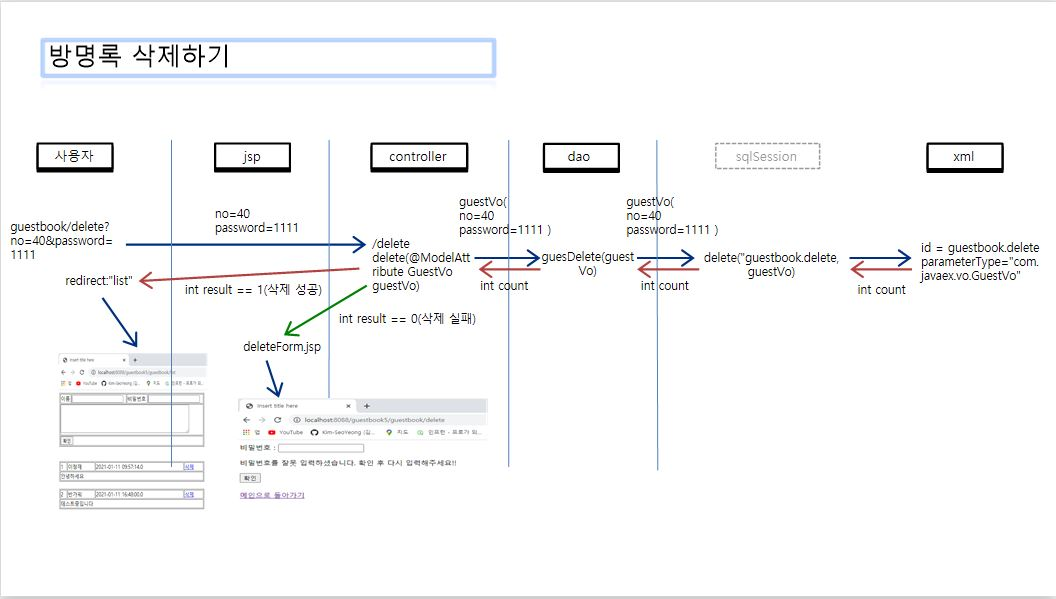
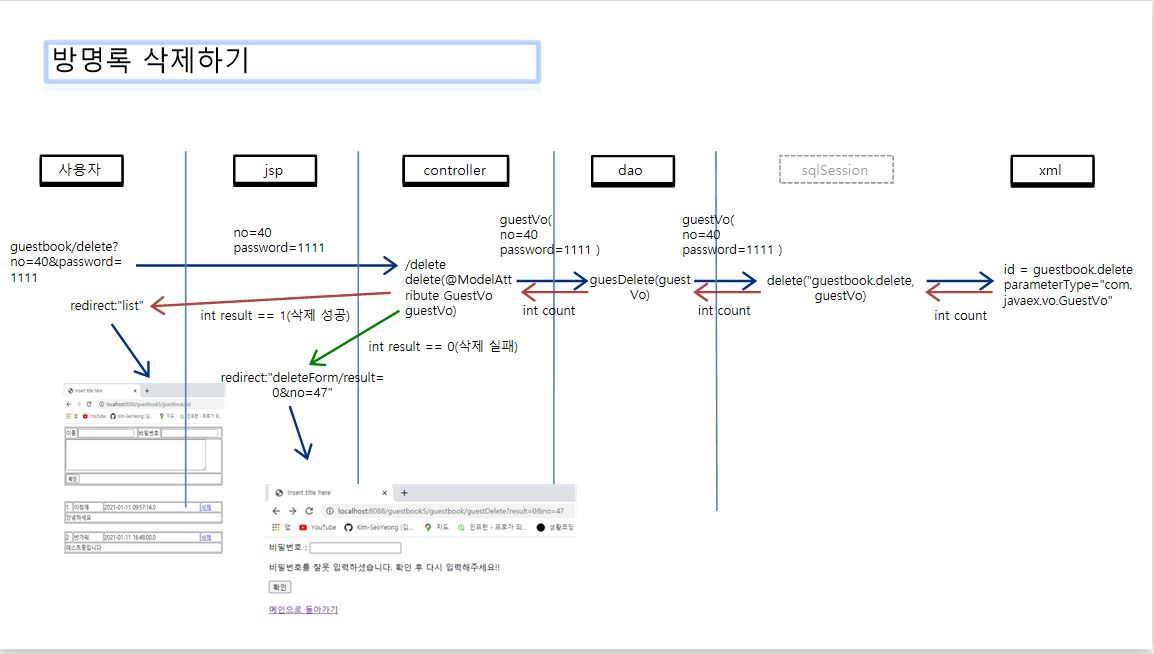
삭제부분 실패시 foward--> redirect로 변경

diff --git a/src/main/java/com/javaex/controller/GuestbookController.java b/src/main/java/com/javaex/controller/GuestbookController.java
@@ -69,6 +69,10 @@ public class GuestbookController {
 		//테스트해보자
 		//System.out.println(guestVo.toString());
 		
+		//파라미터 -->리다이렉트 --> 요청 url 주소를 다시주고 다시시작해야함.
+		//redirect:/guestbook/list?no=3
+		//model --> 포워드  --> 내부 jsp 찾는것
+		
 		//dao --> guestDelete()
 		int result = guestDao.guestDelete(guestVo);
 		
@@ -77,10 +81,10 @@ public class GuestbookController {
 			return "redirect:/guestbook/list";
 		} else {	//실패
 			
-			//model을 통해서 데이터를 전송해주자
-			model.addAttribute("result", result);
-			//다시 deleteForm 포워드
-			return "deleteForm";
+			//deleteForm?no=guestVo.getNo()&result=0
+			//리다이렉트 시켜줘야함..
+			return "redirect:/guestbook/guestDelete?result=0&no=" + guestVo.getNo();
+
 		}
 	}
 	
